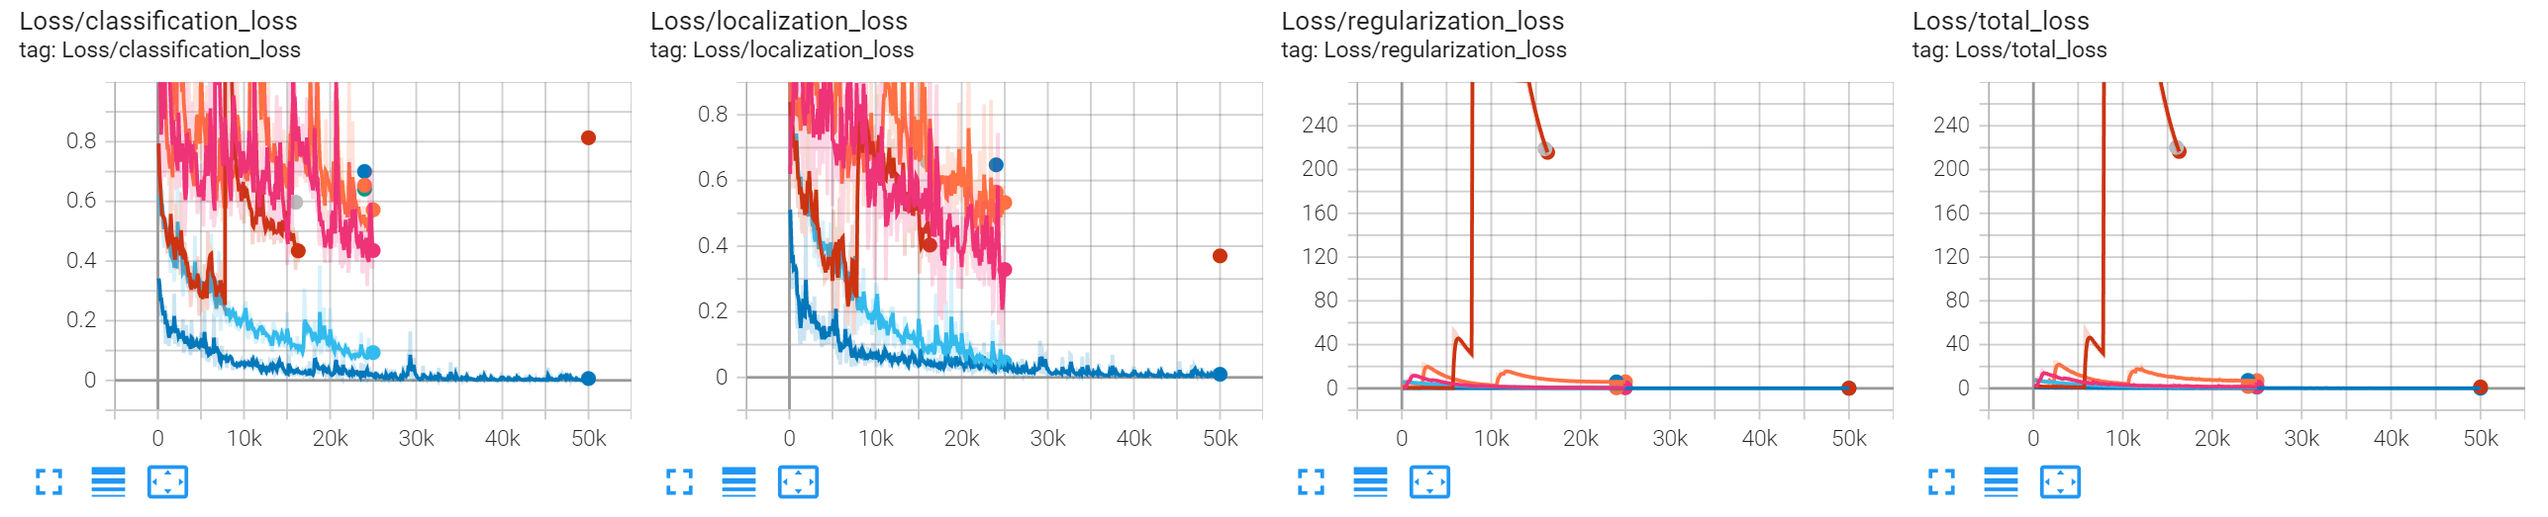
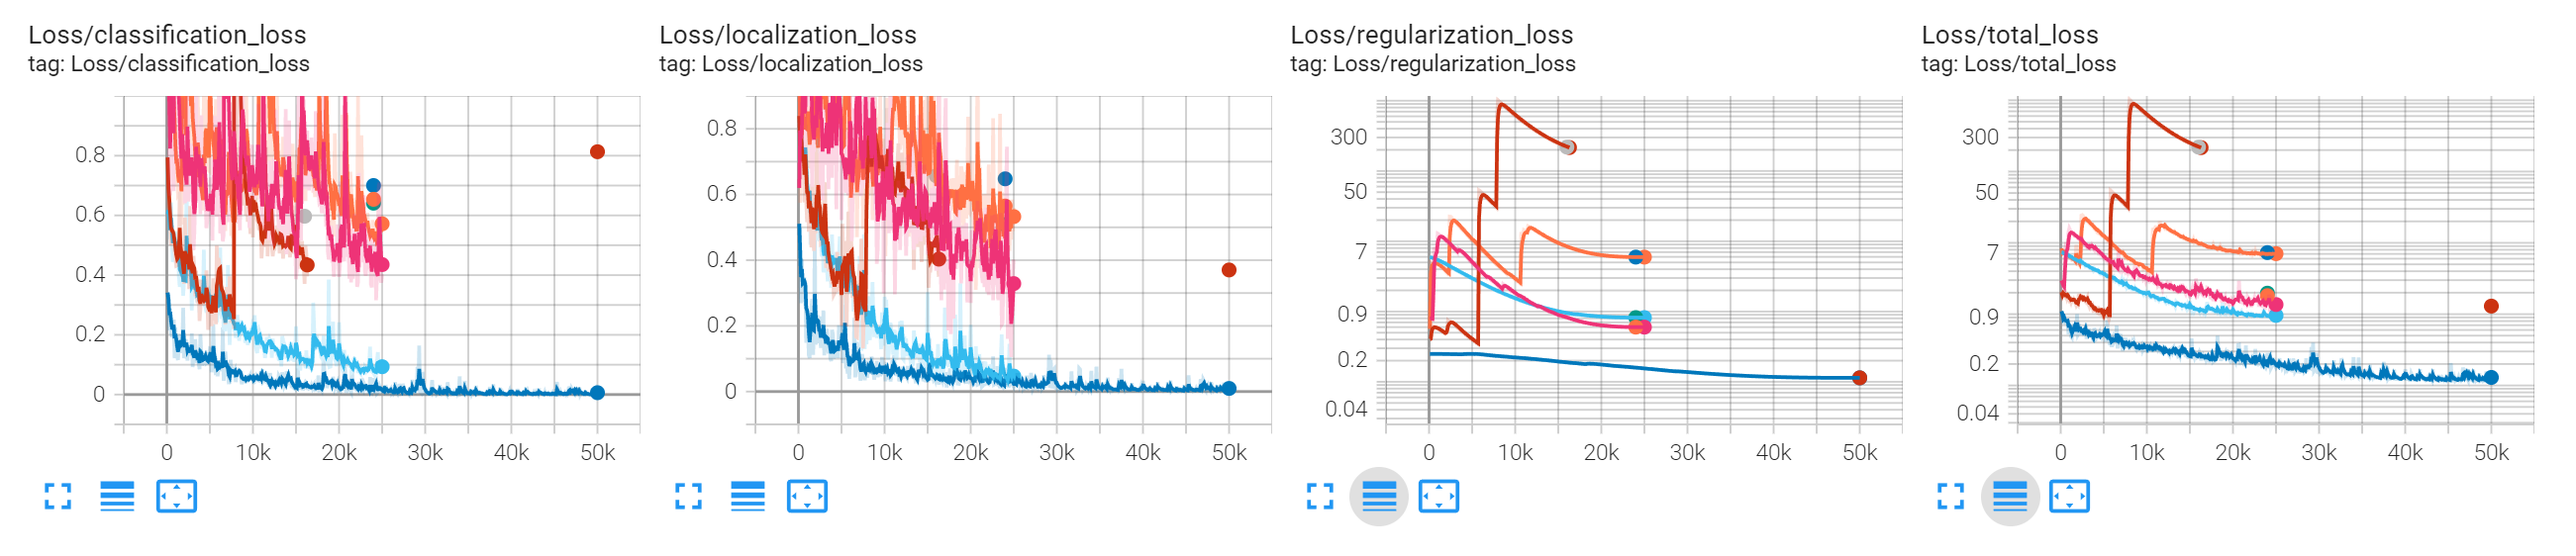
further writeup improvements

diff --git a/writeup.md b/writeup.md
@@ -71,6 +71,9 @@ especially for single-step object detection models.
 Below I inserted plots of losses and learning rates in all the experiments, taken from TensorBoard.
 The sections below explain what has been changed in each experiment.
 
+As the provided code for evaluation is a separate script that runs only once, the validation losses are only shown
+for the final state of the training as opposed to a continuous curve for each iteration.
+
 <img alt="loss plots" src="resources/loss_plots.png" width="100%"/>\
 *Figure 3: Loss curves of all training runs. orange: reference, pink: Experiment 1, brown: Experiment 2,
 light blue: Experiment 3, dark blue: Experiment 4.*
@@ -109,13 +112,14 @@ All the augmentations were added with their respective default settings.
  ```
 
 The training results improved slightly, but the training loss was still significantly above 1. The jumps in the
-training loss curve are a sign of too high learning rates and/or too small batch sizes.
+training loss curve are a sign of too high learning rates and/or too little regularization, such as too small batch
+sizes.
 
 ##### 2. increase batch size to 4
 
 In this run, I increased the batch size from 2 to 4, which is the maximum that fits into my 8 GB GPU memory.
 The training loss curves initially showed significantly better values, but later started to jump again, so I cancelled
-the training run.
+the training run before completion.
 
 ##### 3. decrease learning rate to 0.02
 
